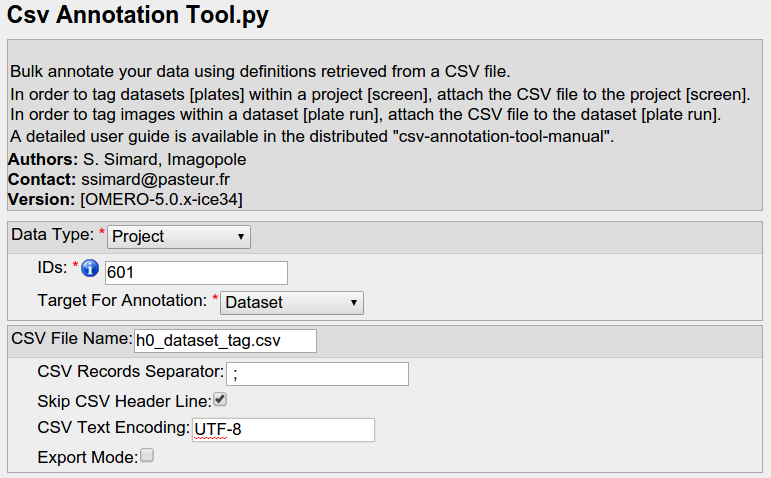
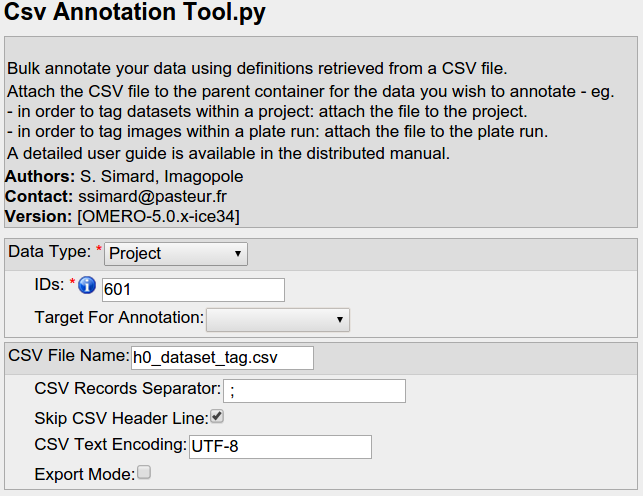
Update user manual for 'child' annotated type

diff --git a/src/main/scripts/omero/annotation_scripts/Csv_Annotation_Tool.py b/src/main/scripts/omero/annotation_scripts/Csv_Annotation_Tool.py
@@ -318,10 +318,11 @@ def run_as_script():
     """
     Bulk annotate your data using definitions retrieved from a CSV file.
 
-    In order to tag datasets [plates] within a project [screen], attach the CSV file to the project [screen].
-    In order to tag images within a dataset [plate run], attach the CSV file to the dataset [plate run].
+    Attach the CSV file to the parent container for the data you wish to annotate - eg.
+    - in order to tag datasets within a project: attach the file to the project.
+    - in order to tag images within a plate run: attach the file to the plate run.
 
-    A detailed user guide is available in the distributed "csv-annotation-tool-manual".
+    A detailed user guide is available in the distributed manual.
     """,
 
     #---- Required arguments
